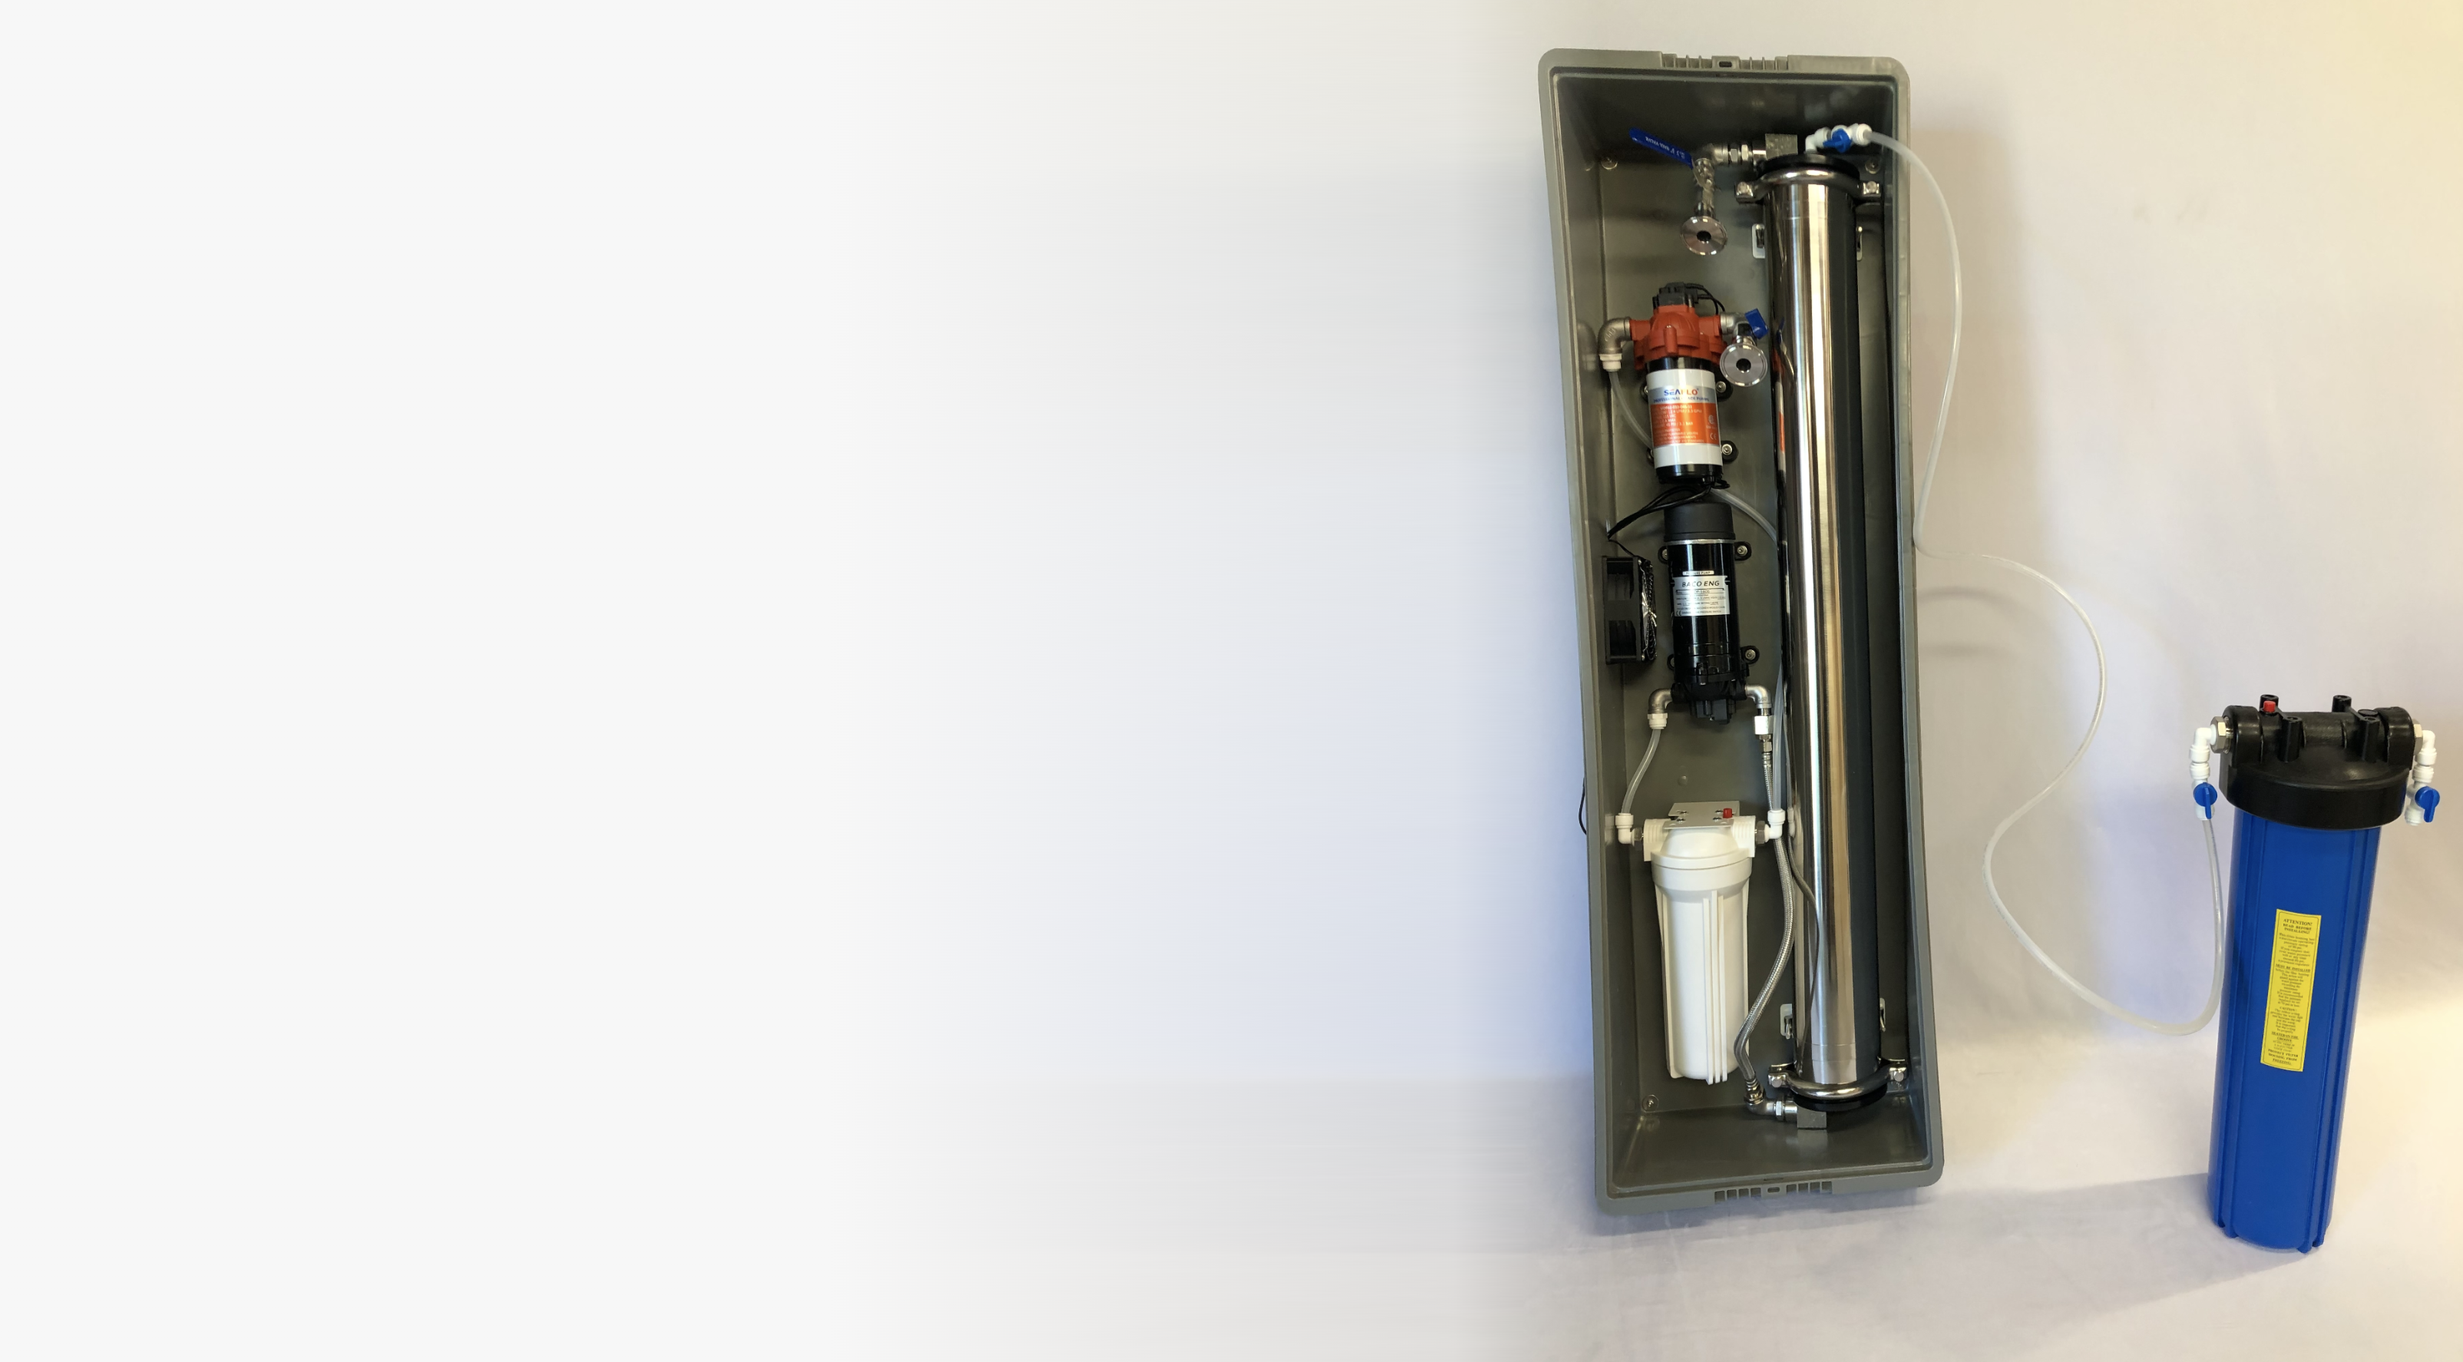
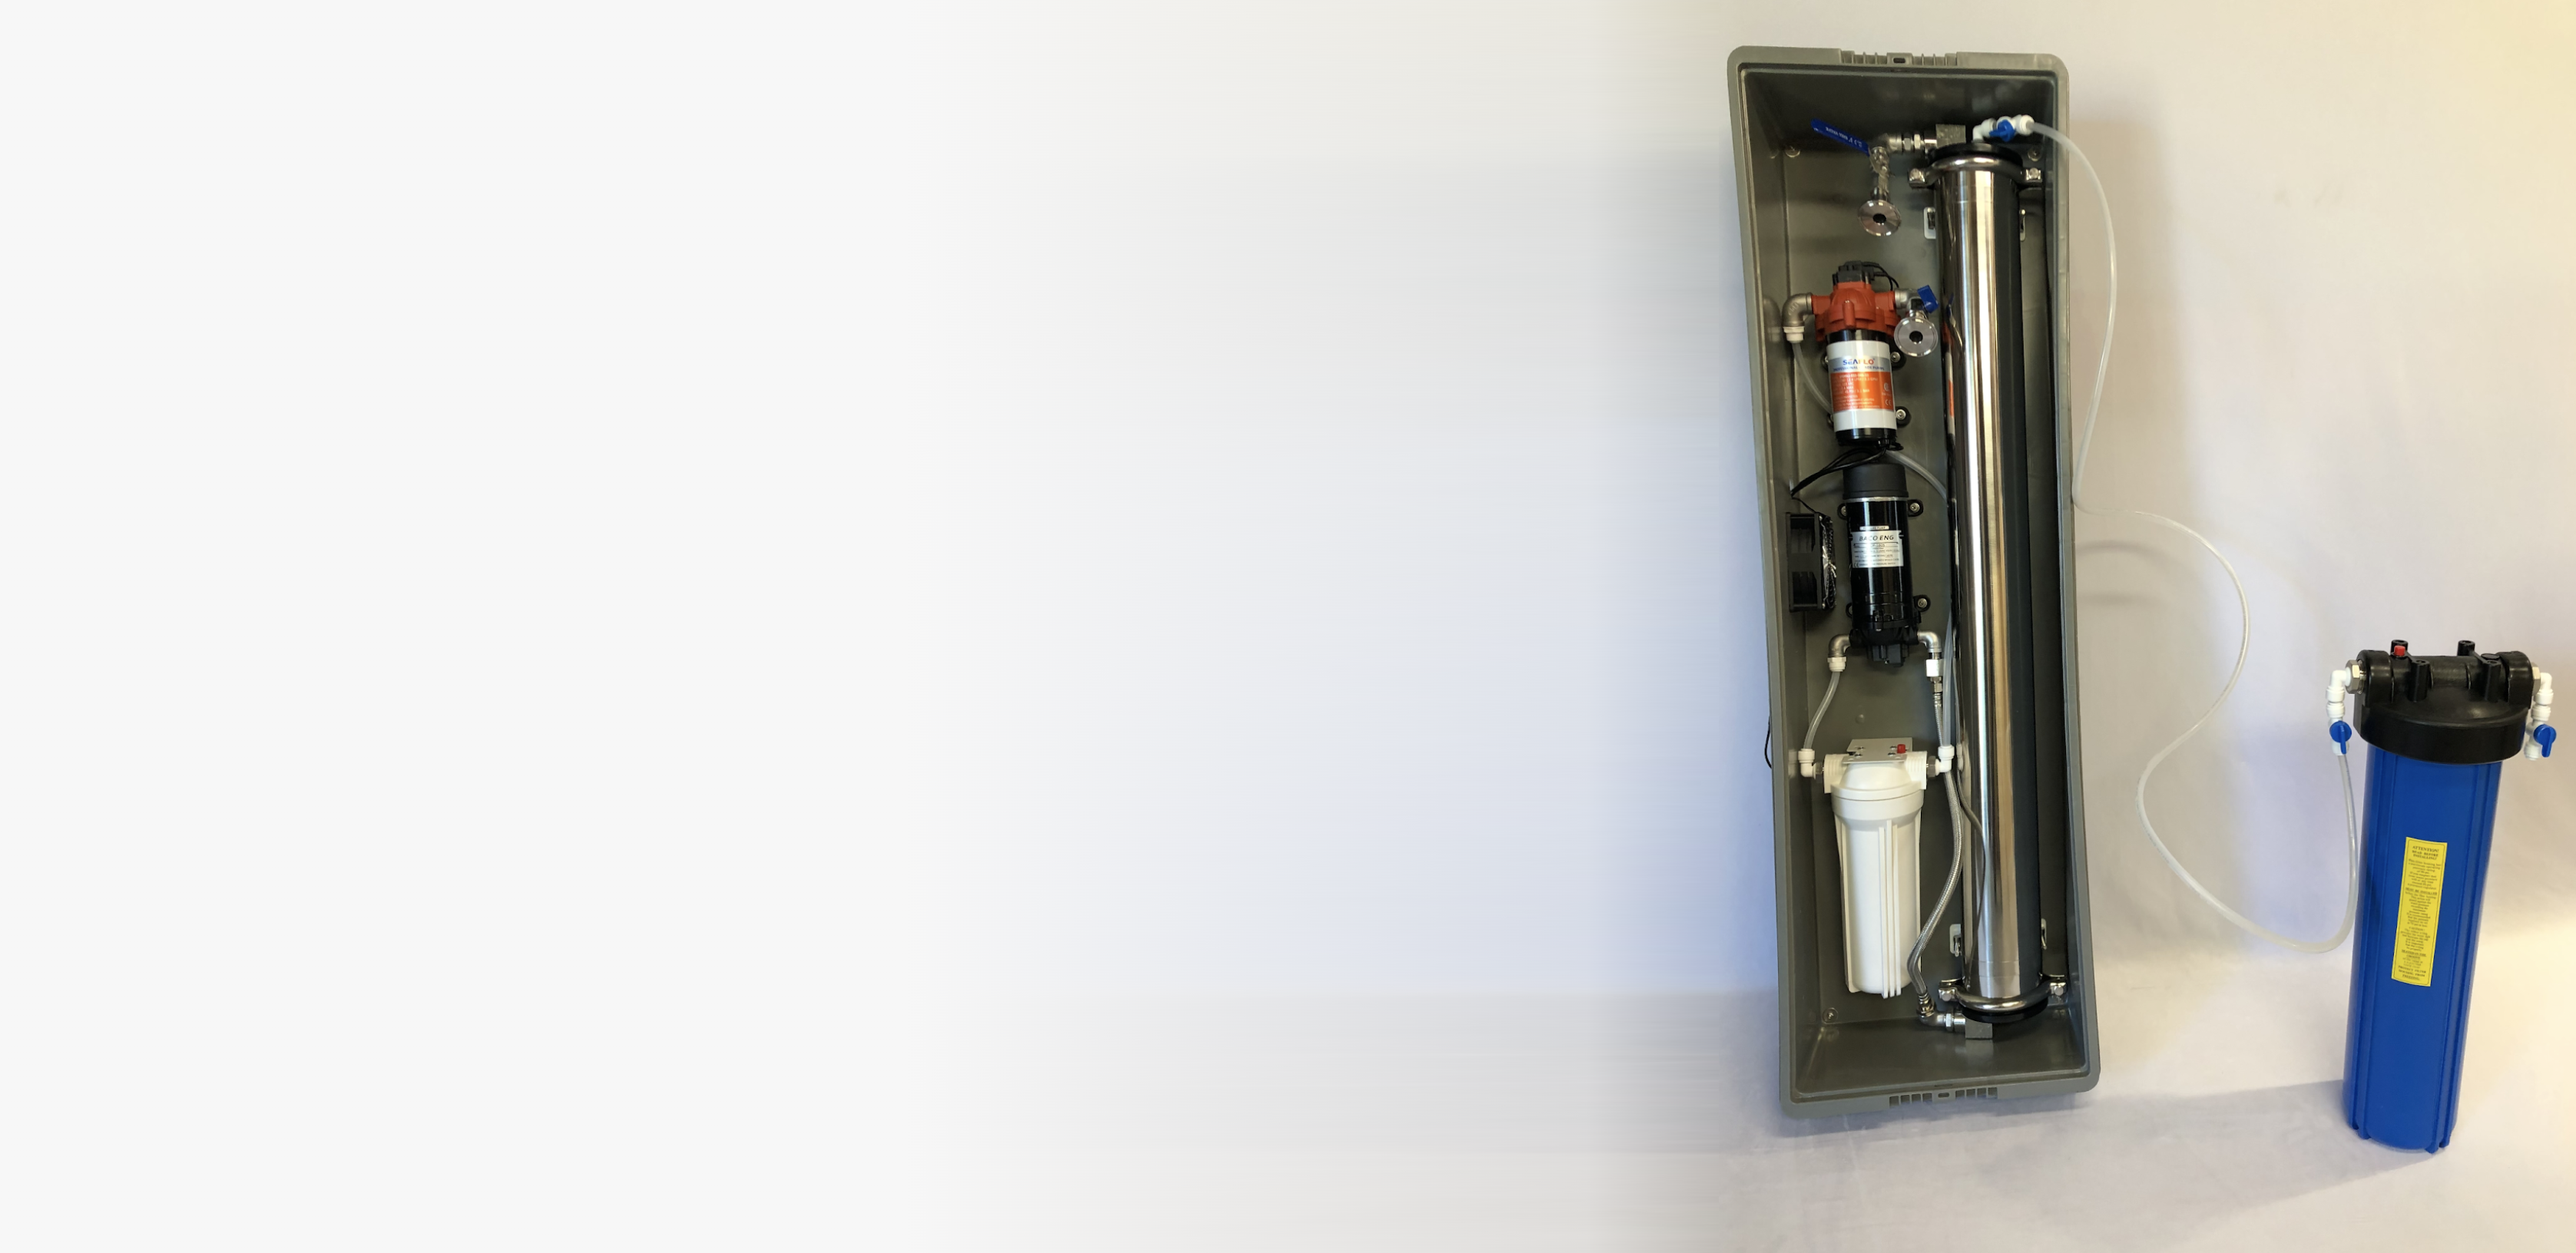
Home page responsive design.

Changed region(s): [[0.6234, 0.0312, 0.9975, 0.9375]]

diff --git a/src/components/Home.js b/src/components/Home.js
@@ -12,7 +12,7 @@ import Avatar from '@mui/material/Avatar';
 import Button from '@mui/material/Button';
 import Tooltip from '@mui/material/Tooltip';
 import MenuItem from '@mui/material/MenuItem';
-import backgroundImg from '../assets/images/home_page_img.png';
+import backgroundImg from '../assets/images/home_page_img_2.png';
 
 
 const pages = ['Products', 'About', 'Contact Us'];
@@ -22,13 +22,52 @@ function Home() {
 
   return (
     <HomeContainer>
-      <InnerContainer>
+      <ImgContainer>
+        <Img src={backgroundImg} className="background"/>
+        <Box sx={{
+          position: 'absolute',
+          display: {xs: 'none', md: 'flex'},
+          marginLeft: '0px',
+          zIndex: 3,
+          alignItems: 'flex-start',
+          flexDirection: 'column',
+          padding: '60px 20px 60px 60px'
+        }}>
+          <Text1>Volitile acidity & alcohol reduction</Text1>
+          <Text2>Wine Filtration</Text2>
+          <Text3>Inexpensive solutions for small scale producers</Text3>
+          <ShopButton href='mailto:kevin@pressuredropfiltration.com' sx={{marginTop: '20px', padding: '12px 50px'}} variant="contained">Shop Now</ShopButton>
+        </Box>
+
+        <Box sx={{
+          position: 'absolute',
+          display: {xs: 'flex', md: 'none'},
+          bottom: 0,
+          left: 0,
+          marginLeft: '0px',
+          zIndex: 3,
+          alignItems: 'flex-start',
+          flexDirection: 'column',
+          padding: '60px 35% 60px 60px'
+        }}>
+          <Text3>Inexpensive filtration solutions for small scale producers</Text3>
+          <ShopButton href='mailto:kevin@pressuredropfiltration.com' sx={{marginTop: '20px', padding: '12px 50px'}} variant="contained">Shop Now</ShopButton>
+        </Box>
+      </ImgContainer>
+      
+      <Box sx={{
+        // position: {xs: 'relative', md: 'absolute'},
+        position: 'relative',
+        display: {xs: 'flex', md: 'none'},
+        marginLeft: '0px',
+        zIndex: 3,
+        alignItems: 'flex-start',
+        flexDirection: 'column',
+        padding: '60px 20px 60px 60px'
+      }}>
         <Text1>Volitile acidity & alcohol reduction</Text1>
         <Text2>Wine Filtration</Text2>
-        <Text3>Inexpensive solutions for small scale producers</Text3>
-        <ShopButton href='mailto:kevin@pressuredropfiltration.com' sx={{marginTop: '20px', padding: '12px 50px'}} variant="contained">Shop Now</ShopButton>
-      </InnerContainer>
-      <Img src={backgroundImg} className="background"/>
+      </Box>
     </HomeContainer>
   );
 }
@@ -41,27 +80,40 @@ const HomeContainer = styled.div`
   flex-direction: column;
   justify-content: center;
   align-items: flex-start;
-  flex: 1;
-  overflow-y: hidden;
+  flex: 0;
+  /* overflow-y: hidden; */
 `
 const Img = styled.img`
   width: 100%;
   /* min-height: 100%; */
-  position: absolute;
+  /* position: absolute; */
   top: 0;
   left: 0;
   /* opacity: 0.7; */
 `
 const InnerContainer = styled.div`
-  /* margin:120px 0 0 40px; */
-  margin-left: 70px;
+  /* position: 'absolute'; */
+  margin-left: 0px;
   z-index: 3;
   display: flex;
   align-items: flex-start;
   flex-direction: column;
   /* background-color: rgba(255,255,255, 0.5); */
-  padding: 60px;
+  padding: 60px 20px 60px 60px;
+  border: 1px solid black;
 `
+// const BottomContainer = styled.div`
+//   /* margin:120px 0 0 40px; */
+//   margin-left: 0px;
+//   z-index: 3;
+//   /* display: flex; */
+//   align-items: flex-start;
+//   flex-direction: column;
+//   /* background-color: rgba(255,255,255, 0.5); */
+//   padding: 60px 20px 60px 60px;
+  
+// `
+
 const ShopButton = styled(Button)`
   /* padding-left: 40px; */
   
@@ -75,6 +127,7 @@ const Text1 = styled.div`
   margin: 6px 0;
   font-weight: 600;
   letter-spacing: 2px;
+  text-align: left;
   /* text-transform: uppercase; */
 `
 const Text2 = styled.div`
@@ -83,8 +136,15 @@ margin: 6px 0;
 font-weight: 600;
 letter-spacing: 4px;
 text-transform: uppercase;
+text-align: left;
 `
 const Text3 = styled.div`
 font-size: 16px;
-margin: 18px 0 10px 0;
+margin: 12px 0 10px 0;
+font-weight: 200;
+text-align: left;
+`
+
+const ImgContainer = styled.div`
+  position: relative;
 `

diff --git a/src/components/TopBar.js b/src/components/TopBar.js
@@ -38,7 +38,7 @@ function TopBar() {
 
   return (
     <AppBar position="static" color="inherit">
-      <Container disableGutters={true} maxWidth={false} sx={{display: { xs: 'none', md: 'flex' }, justifyContent: 'center', alignItems: 'center', backgroundColor: 'black', height: '30px', margin: 0, padding:0, }}>
+      <Container disableGutters={true} maxWidth={false} sx={{display: 'flex', justifyContent: 'center', alignItems: 'center', backgroundColor: 'black', height: '30px', margin: 0, padding:0, }}>
         <Typography
           variant="body2"
           noWrap
@@ -71,7 +71,7 @@ function TopBar() {
               href="/"
               sx={{
                 mr: 2,
-                display: { xs: 'none', md: 'flex' },
+                // display: { xs: 'none', md: 'flex' },
                 // fontFamily: 'monospace',
                 fontWeight: 400,
                 // letterSpacing: '.3rem',
@@ -91,7 +91,7 @@ function TopBar() {
               href="/"
               sx={{
                 mr: 2,
-                display: { xs: 'none', md: 'flex' },
+                // display: { xs: 'none', md: 'flex' },
                 // fontFamily: 'monospace',
                 fontWeight: 200,
                 // letterSpacing: '.3rem',
@@ -108,7 +108,7 @@ function TopBar() {
             </Typography>
           </Box>
 
-          <Box sx={{ flexGrow: 1, display: { xs: 'flex', md: 'none' } }}>
+          <Box sx={{ flexGrow: 1, display: { xs: 'flex', md: 'none' }, justifyContent: 'flex-end' }}>
             <IconButton
               size="large"
               aria-label="account of current user"
